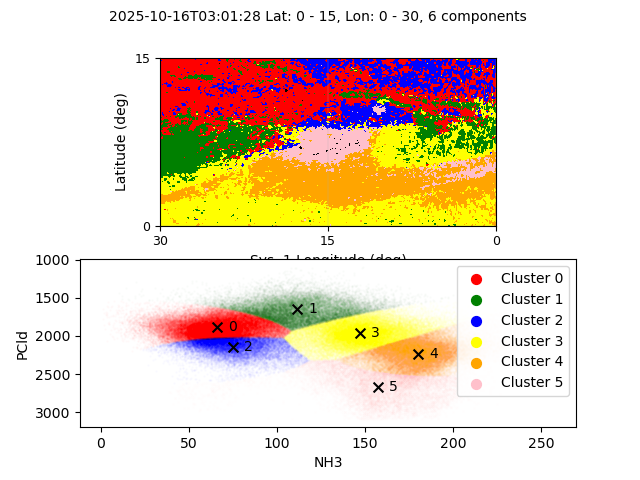
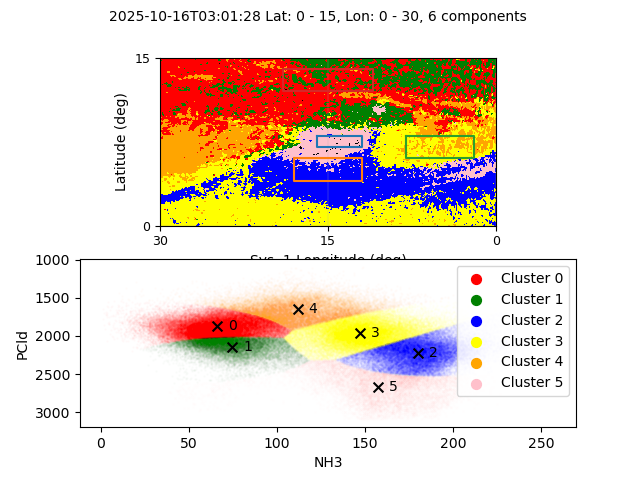
feat: add ROI labelling to maps

Changed region(s): [[0.25, 0.125, 0.7812, 0.4688], [0.25, 0.5938, 0.625, 0.7812], [0.5312, 0.6562, 0.7188, 0.7812]]

diff --git a/scripts/processes.py b/scripts/processes.py
@@ -57,16 +57,16 @@ Parameters
         color map object for clusters
 """
 
-def create_map_comp_figure(keywords, latRng, lngRng, cm_num, n_comp, pred, input_arr, subset_shape, param_ranges, threshold, cmap):
+def create_map_comp_figure(keywords, latRng, lngRng, cm_num, n_comp, pred, input_arr, subset_shape, param_ranges, threshold, cmap, ROI):
    
   
     fig2, axis2 = pl.subplots(3, 1, constrained_layout = True)
     map1 = pre.get_patch(keywords[0], latRng, lngRng, cm_num)
     map2 = pre.get_patch(keywords[1], latRng, lngRng, cm_num)
 
-    MP.create_cluster_map(axis2[0], n_comp, pred, input_arr, subset_shape, latRng, lngRng, cmap, cm_num)
-    MP.plot_patch(map1, latRng, lngRng, color_dict[keywords[0]], axis2[1], param_ranges[0][0], param_ranges[0][1],  keyword_dict[keywords[0]], cm_num, fig2, True)
-    MP.plot_patch(map2, latRng, lngRng, color_dict[keywords[1]], axis2[2], param_ranges[1][0], param_ranges[1][1], keyword_dict[keywords[1]], cm_num, fig2, True)
+    MP.create_cluster_map(axis2[0], n_comp, pred, input_arr, subset_shape, latRng, lngRng, cmap, ROI, cm_num)
+    MP.plot_patch(map1, latRng, lngRng, color_dict[keywords[0]], axis2[1], param_ranges[0][0], ROI, param_ranges[0][1],  keyword_dict[keywords[0]], cm_num, fig2, True)
+    MP.plot_patch(map2, latRng, lngRng, color_dict[keywords[1]], axis2[2], param_ranges[1][0], ROI, param_ranges[1][1], keyword_dict[keywords[1]], cm_num, fig2, True)
     fig2.suptitle(create_plot_title(keywords, latRng, lngRng, n_comp, threshold), fontsize = 10)
     output_file_name = create_file_name(keywords, latRng, lngRng, n_comp, "map_comparison", cm_num, threshold)
     fig2.savefig(output_file_name)
@@ -111,7 +111,7 @@ functions to run various clustering --> visualization pipelines
 
 def output_comparison_and_plot(date, keywords, param_ranges, 
                            latRng = [85, 95], lngRng = [230, 330], 
-                           n_comp = 4, cov_type = "full", cm_num = 1, threshold = 0.75):
+                           n_comp = 4, ROI = {}, cov_type = "full", cm_num = 1, threshold = 0.75):
     
 
     #creates two visualization files, one is a map comparison, the other has cluster map and scatter plot
@@ -127,13 +127,13 @@ def output_comparison_and_plot(date, keywords, param_ranges,
   
     cmap = ListedColormap(colors[:n_comp])
     create_plot_figure(keywords, latRng, lngRng, cm_num, n_comp, pred, input_arr, subset_shape, param_ranges, threshold, cmap, cov_type)
-    create_map_comp_figure(keywords, latRng, lngRng, cm_num, n_comp, pred, input_arr, subset_shape, param_ranges, threshold, cmap)
+    create_map_comp_figure(keywords, latRng, lngRng, cm_num, n_comp, pred, input_arr, subset_shape, param_ranges, threshold, cmap, ROI)
    
 
 
 def output_cluster_map_and_plot(date, keywords, param_ranges, 
                            latRng = [85, 95], lngRng = [230, 330], 
-                           n_comp = 4, cov_type = "full", cm_num = 1, threshold = 0.75):
+                           n_comp = 4, ROI = {}, cov_type = "full", cm_num = 1, threshold = 0.75):
     
     # creates cluster spatial map and cluster scatter plot
     [input_arr, subset_shape] = pre.get_input_array(keywords, param_ranges, latRng, lngRng, cm_num)
@@ -143,7 +143,7 @@ def output_cluster_map_and_plot(date, keywords, param_ranges,
     cmap = ListedColormap(colors[:n_comp])
     fig, axis = pl.subplots(2, 1)
   
-    MP.create_cluster_map(axis[0], n_comp, pred, input_arr, subset_shape, latRng, lngRng, cmap, cm_num)
+    MP.create_cluster_map(axis[0], n_comp, pred, input_arr, subset_shape, latRng, lngRng, cmap, ROI, cm_num)
     PL.create_cluster_plot(axis[1],  keywords, 0, 1, input_arr, pred,  n_comp, cov_type, latRng, lngRng, cmap, cm_num)
     fig.suptitle(create_plot_title(keywords, latRng, lngRng, n_comp, threshold), fontsize = 10)
     
@@ -152,7 +152,7 @@ def output_cluster_map_and_plot(date, keywords, param_ranges,
 
 def output_cluster_map_and_plots(date, keywords, param_ranges, 
                            latRng = [85, 95], lngRng = [230, 240], 
-                           n_comp = 4, cov_type = "full", cm_num = 1, threshold = 0.75):
+                           n_comp = 4, ROI = {}, cov_type = "full", cm_num = 1, threshold = 0.75):
     # creates spatial cluster map and two cluster scatter plots
     [input_arr, subset_shape] = pre.get_input_array(keywords, param_ranges, latRng, lngRng, cm_num)
     pred = CL.create_clusters(input_arr[:, 0:len(keywords)], cov_type, n_comp, config["soft_clustering"], threshold)
@@ -169,7 +169,7 @@ def output_cluster_map_and_plots(date, keywords, param_ranges,
     pred = STAT.reassign_clusters(np.array(pred), np.swapaxes(stats[:, :, 0], 0, 1), np.array(param_ranges))
     
     #create figures
-    MP.create_cluster_map(axis[0], n_comp, pred, input_arr, subset_shape, latRng, lngRng, cmap, cm_num)
+    MP.create_cluster_map(axis[0], n_comp, pred, input_arr, subset_shape, latRng, lngRng, cmap, ROI, cm_num)
     PL.create_cluster_plot(axis[1],  keywords, 0, 1, input_arr, pred,  n_comp, cov_type, latRng, lngRng, cmap, cm_num)
     PL.create_cluster_plot(axis[2],  keywords, 2, 3, input_arr, pred,  n_comp, cov_type, latRng, lngRng, cmap, cm_num)
 
@@ -184,9 +184,9 @@ def output_cluster_map(date, keywords, param_ranges,
     
     # creates spatial cluster map
     [input_arr, subset_shape] = pre.get_input_array(keywords, param_ranges, latRng, lngRng, cm_num)
-    print(subset_shape)
+   
     pred = CL.create_clusters(input_arr[:, 0:len(keywords)], cov_type, n_comp, config["soft_clustering"], threshold)
-    print(pred)
+    
     stats = STAT.get_all_stats(pred, keywords, input_arr[:, len(keywords)], n_comp, latRng, lngRng, cm_num)
     pred = STAT.reassign_clusters(np.array(pred), np.swapaxes(stats[:, :, 0], 0, 1), np.array(param_ranges))
     cmap = ListedColormap(colors[:n_comp])
@@ -277,6 +277,7 @@ lat_range = [90 - lat_range[1], 90 - lat_range[0]]
 
 
 #First two elements are the north and south colatitudes. Third is the central longitude and the fourth with the longitude halfwidth
+
 ROI={"Hot Spot":[82,83,14.0,2.0],
                      "Gyre":[84,86,15.0,3.0],
                      "Cloud Plume":[82,84,5.0,3.0],
@@ -286,10 +287,12 @@ ROI={"Hot Spot":[82,83,14.0,2.0],
 
 #output_comparison_and_plot("20251016", ["AOI", "CI"], [[0.1, 0.4], [0.4, 0.8]], lat_range, lon_range, 5)
 
+output_cluster_map_and_plot("20251016", ["NH3", "PCld"], [[0, 300], [1000,  3100]], lat_range, lon_range, 6, ROI)
 
-output_cluster_map("20251016",
-                       ["275", "395", "502", "619", "631", "645", "673", "727", "889"], 
-                      [[0, 1], [0,  1], [0,  1], [0,  1], [0,  1], [0,  1], [0,  1], [0,  1], [0,  1]], 
-                      lat_range, lon_range, 8, ROI, "full", 1)
+
+# output_cluster_map("20251016",
+#                        ["275", "395", "502", "619", "631", "645", "673", "727", "889"], 
+#                       [[0, 1], [0,  1], [0,  1], [0,  1], [0,  1], [0,  1], [0,  1], [0,  1], [0,  1]], 
+#                       lat_range, lon_range, 8, ROI, "full", 1)
                       
 

diff --git a/scripts/plots/mapping.py b/scripts/plots/mapping.py
@@ -50,9 +50,14 @@ def plot_cluster_patch(patch, LatLims, LonLims, cmap, ROI, axis, v_min, v_max, t
                extent=[360 - LonLims[0],360 - LonLims[1],90-LatLims[1],
                        90-LatLims[0]],
                        aspect="equal")
-    for key, value in ROI.items():
-        
-        axis.add_patch(rect)
+ 
+    if ROI:
+        for R in ROI:
+                axis.plot(np.array([ROI[R][2]+ROI[R][3],ROI[R][2]-ROI[R][3],
+                              ROI[R][2]-ROI[R][3],ROI[R][2]+ROI[R][3],
+                              ROI[R][2]+ROI[R][3]]),
+                              90.-np.array([ROI[R][0],ROI[R][0],ROI[R][1],
+                              ROI[R][1],ROI[R][0]]))
 
     #axis.set_title(title, pad = 15)
 
@@ -76,7 +81,7 @@ def plot_cluster_patch(patch, LatLims, LonLims, cmap, ROI, axis, v_min, v_max, t
         #cbar.remove()
 
 
-def plot_patch(patch, LatLims, LonLims, cmap, axis, v_min, v_max, title, cm_num, fig = None, cbarplot = True, cbar_title = "test", cbar_reverse = False):
+def plot_patch(patch, LatLims, LonLims, cmap, ROI, axis, v_min, v_max, title, cm_num, fig = None, cbarplot = True, cbar_title = "test", cbar_reverse = False):
     '''
     Purpose:
         to plot a patch with appropriate longitude/latitude scales

diff --git a/config/config.py b/config/config.py
@@ -3,7 +3,7 @@ config = {
     'input': "data/HST/20251016UTc/Sys1",
     #'input': "data/L4/20251214UT",
     "output": "visualizations/HST/20251016UTc/lon_0-30",
-    "soft_clustering": True,
+    "soft_clustering": False,
     
 
 }
